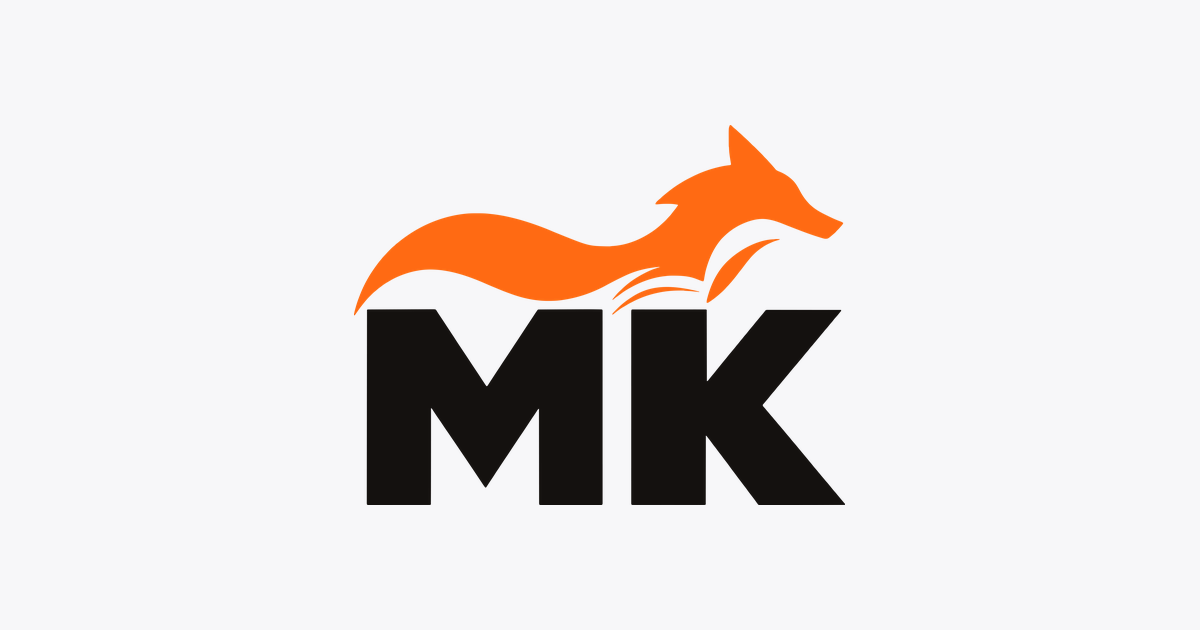
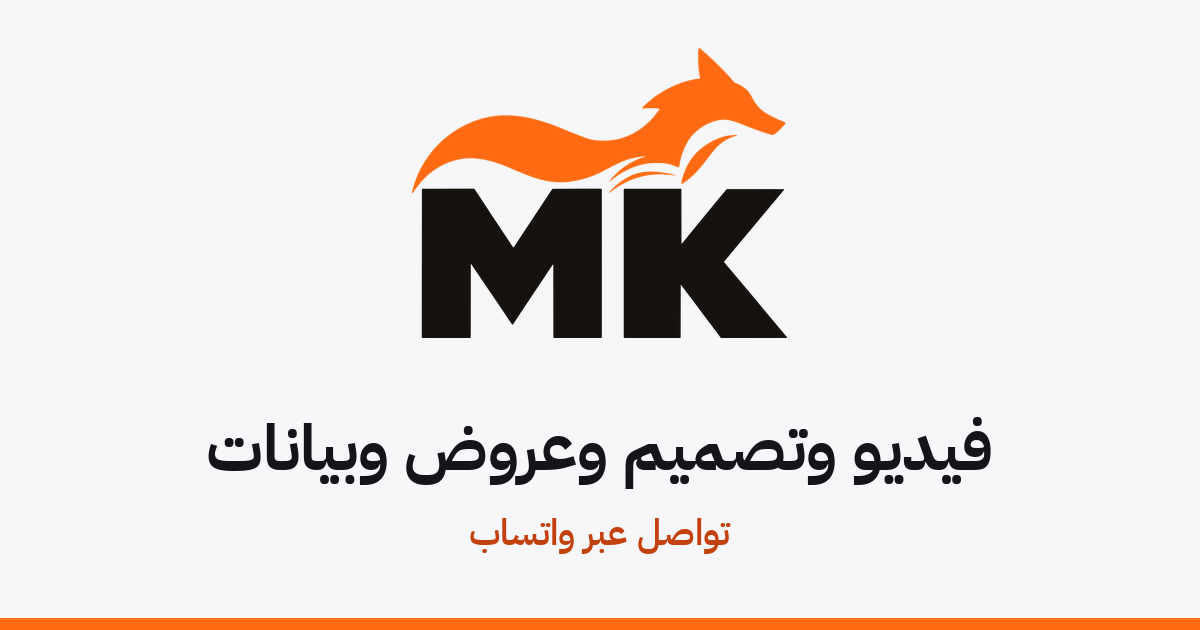
Responsive image sizes, share image with services line, static picks and services, hero preview pause button

Changed region(s): [[0.1542, 0.0905, 0.8325, 0.8746], [0.0, 0.9651, 1.0, 1.0]]

diff --git a/index.html b/index.html
@@ -17,12 +17,12 @@
 <meta property="og:description" content="استوديو فردي لأفلام الذكاء الاصطناعي والتصميم والعروض التقديمية، وتحليل البيانات بـ SPSS وExcel وPower BI، وتنسيق المستندات وبرمجة المواقع. التواصل عبر واتساب.">
 <meta property="og:image" content="https://mkstudio.studio/og-image.png">
 <meta property="og:image:width" content="1200"><meta property="og:image:height" content="630">
-<meta property="og:image:alt" content="شعار M.K Studio">
+<meta property="og:image:alt" content="شعار M.K Studio وخدمات الفيديو والتصميم والعروض وتحليل البيانات">
 <meta name="twitter:card" content="summary_large_image">
 <meta name="twitter:title" content="M.K Studio | فيديو وتصميم وعروض وبيانات">
 <meta name="twitter:description" content="استوديو فردي لأفلام الذكاء الاصطناعي والتصميم والعروض التقديمية، وتحليل البيانات بـ SPSS وExcel وPower BI، وتنسيق المستندات وبرمجة المواقع. التواصل عبر واتساب.">
 <meta name="twitter:image" content="https://mkstudio.studio/og-image.png">
-<meta name="twitter:image:alt" content="شعار M.K Studio">
+<meta name="twitter:image:alt" content="شعار M.K Studio وخدمات الفيديو والتصميم والعروض وتحليل البيانات">
 <script type="application/ld+json">{"@context": "https://schema.org", "@type": "ProfessionalService", "@id": "https://mkstudio.studio/#studio", "name": "M.K Studio", "url": "https://mkstudio.studio/", "image": "https://mkstudio.studio/og-image.png", "telephone": "+201147320608", "description": "استوديو فردي لأفلام الذكاء الاصطناعي والتصميم والعروض وتحليل البيانات وتنسيق المستندات والبرمجة ومواقع الويب.", "areaServed": ["مصر", "دول الخليج"], "contactPoint": {"@type": "ContactPoint", "contactType": "استفسارات الخدمات عبر واتساب", "url": "https://wa.me/201147320608", "availableLanguage": ["ar"]}}</script>
 </head>
 <body>
@@ -134,6 +134,8 @@ main:focus{outline:none}
 .bigplay{position:absolute;top:50%;left:50%;translate:-50% -50%;width:74px;height:74px;border-radius:50%;background:#fff;color:#14151a;display:grid;place-items:center;box-shadow:0 10px 30px #0006;transition:.25s}
 .bigplay .playdot{border-width:11px 0 11px 18px;margin-left:5px}
 .fw:hover .bigplay{scale:1.1;background:var(--fox);color:#fff}
+.fw{grid-row:1}.fwp{grid-column:1/-1;grid-row:1;align-self:start;justify-self:end;z-index:2;margin:12px;display:inline-flex;align-items:center;gap:6px;border:0;border-radius:999px;padding:7px 12px;background:#000a;color:#fff;font:700 13px/1 var(--body);cursor:pointer}
+.fwp[hidden]{display:none}.fwp:hover{background:#000d}.fwp:focus-visible{outline:2px solid #fff;outline-offset:2px}.fwp i{width:10px;height:11px;border-inline:3px solid currentColor;box-sizing:border-box}.fwp[aria-pressed="true"] i{width:0;height:0;border-inline:0;border-style:solid;border-color:transparent;border-width:6px 0 6px 10px;border-left-color:currentColor}
 .mini{position:relative;border-radius:14px;overflow:hidden;aspect-ratio:4/3;grid-column:span 3;border:0;padding:0;cursor:pointer;background:var(--ph);animation:rise .7s .2s backwards}
 .mini img{object-position:top;transition:scale .5s}
 .mini:hover img{scale:1.05}
@@ -300,7 +302,7 @@ dialog::backdrop{background:#000e}
 
 <div>
 <a class="skip btn solid" href="#main">انتقل إلى الأعمال</a>
-<noscript><p class="ns">لعرض الأعمال فعّل JavaScript، أو <a href="https://wa.me/201147320608">راسلني على واتساب</a>.</p></noscript>
+<noscript><p class="ns">لعرض المعاينات التفاعلية فعّل JavaScript، أو <a href="https://wa.me/201147320608">راسلني على واتساب</a> لتوضيح طلبك.</p></noscript>
 <header class="top"><div class="wrap">
   <a href="#" aria-label="M.K Studio"><img class="lg lg-l" src="assets/logo_light.svg" alt="M.K Studio" width="52" height="40"><img class="lg lg-d" src="assets/logo_inverse.svg" alt="" width="52" height="40"></a>
   <nav aria-label="الصفحة"><a href="#picks" data-go="">أبرز الأعمال</a><a href="#works" data-go="الكل">كل الأعمال</a><a href="#sites" data-go="مواقع وتطبيقات">مواقع وتطبيقات</a><a href="#services" data-go="">الخدمات</a><a href="#tools" data-go="">البرامج</a><a href="#contact" data-go="">تواصل</a></nav>
@@ -322,7 +324,7 @@ dialog::backdrop{background:#000e}
   <div class="collage" id="collage"></div>
 </div></section>
 
-<div class="wrap blk" id="picks"></div>
+<div class="wrap blk" id="picks"><div class="blk-h"><h2>أبرز الأعمال</h2></div><div class="bento"><button class="tile b" data-open="g1"><img src="works/g1/thumb.webp" srcset="works/g1/thumb-320.webp 320w, works/g1/thumb.webp 640w" sizes="(max-width:860px) 100vw, 600px" width="640" height="400" alt="" loading="lazy" decoding="async"><span class="lbl"><small>مجلات</small><b>مجلة سدرة</b></span></button><button class="tile w" data-open="v01"><img src="posters/v01.webp" srcset="posters/v01-320.webp 320w, posters/v01.webp 640w" sizes="(max-width:860px) 100vw, 600px" width="640" height="360" alt="" loading="lazy" decoding="async"><span class="tp"><span class="playdot"></span></span><span class="lbl"><small>حكايات من تراثنا · لمحة</small><b>سالفة من زمان</b></span></button><button class="tile h" data-open="g5"><img src="works/g5/thumb.webp" srcset="works/g5/thumb-320.webp 320w, works/g5/thumb.webp 640w" sizes="(max-width:860px) 50vw, 300px" width="640" height="400" alt="" loading="lazy" decoding="async"><span class="lbl"><small>إنفوجرافيك</small><b>قبل 125 ألف سنة</b></span></button><button class="tile " data-open="g15"><img src="works/g15/thumb.webp" srcset="works/g15/thumb-320.webp 320w, works/g15/thumb.webp 640w" sizes="(max-width:860px) 50vw, 300px" width="640" height="400" alt="" loading="lazy" decoding="async"><span class="lbl"><small>هويات بصرية</small><b>هوية مدار</b></span></button><button class="tile " data-open="t1"><img src="posters/t1.webp" srcset="posters/t1-320.webp 320w, posters/t1.webp 640w" sizes="(max-width:860px) 50vw, 300px" width="640" height="360" alt="" loading="lazy" decoding="async"><span class="tp"><span class="playdot"></span></span><span class="lbl"><small>فيديو تعليمي · لمحة</small><b>علامات الترقيم</b></span></button><button class="tile " data-open="g22"><img src="works/g22/thumb.webp" srcset="works/g22/thumb-320.webp 320w, works/g22/thumb.webp 640w" sizes="(max-width:860px) 50vw, 300px" width="640" height="360" alt="" loading="lazy" decoding="async"><span class="lbl"><small>عروض تقديمية</small><b>دلّة: محمصة قهوة</b></span></button><button class="tile " data-open="v03"><img src="posters/v03.webp" srcset="posters/v03-320.webp 320w, posters/v03.webp 640w" sizes="(max-width:860px) 50vw, 300px" width="640" height="360" alt="" loading="lazy" decoding="async"><span class="tp"><span class="playdot"></span></span><span class="lbl"><small>حكايات من تراثنا · لمحة</small><b>حكاية من البحر</b></span></button></div></div>
 
 <nav class="chips" id="works" aria-label="الأقسام"><div class="wrap" id="chips"></div></nav>
 <p class="sr" id="flt" role="status" aria-live="polite"></p>
@@ -331,7 +333,7 @@ dialog::backdrop{background:#000e}
 <div class="wrap">
   <section class="blk" id="services">
     <div class="blk-h"><h2>الخدمات</h2><p>خمسة مسارات، وكل مسار يبدأ من فكرتك وينتهي بملف أو موقع جاهز للنشر أو العرض.</p></div>
-    <div class="rows" id="svcs"></div>
+    <div class="rows" id="svcs"><a class="row" href="#works" data-go="فيديو"><span class="n">01</span><h3>فيديو بالذكاء الاصطناعي</h3><p>مسلسلات كرتونية وأفلام قصيرة وبودكاست مصوّر وفيديو تعليمي، بشخصيات وأصوات وموسيقى.</p><span class="go">شاهد الأعمال ←</span></a><a class="row" href="#works" data-go="تصميم"><span class="n">02</span><h3>تصميم وهويات</h3><p>مجلات وإنفوجرافيك وملصقات، وشعار وتطبيقاته من أدوات مكتبية وعبوات.</p><span class="go">شاهد الأعمال ←</span></a><a class="row" href="#works" data-go="عروض وبيانات"><span class="n">03</span><h3>عروض وتحليل بيانات</h3><p>عروض تقديمية بتصميم متكامل، ولوحات Power BI تحوّل الأرقام إلى قرار.</p><span class="go">شاهد الأعمال ←</span></a><a class="row" href="#works" data-go="مواقع وتطبيقات"><span class="n">04</span><h3>مواقع وتطبيقات ويب</h3><p>منصات وأدوات تعمل في المتصفح، من واجهة عربية واضحة إلى منطق وقاعدة بيانات.</p><span class="go">شاهد الأعمال ←</span></a><a class="row" href="#contact"><span class="n">05</span><h3>تنسيق الملفات</h3><p>ملفات Word وPowerPoint وPDF مرتّبة على دليل الجهة أو الجامعة.</p><span class="go">اطلب تنسيقًا ←</span></a></div>
     <div class="fmt"><h3>تنسيق الملفات وتحسينها</h3><p>أنسّق ملفات Word وPowerPoint وPDF وأرتّبها على دليل الجهة أو الجامعة. المحتوى كما هو، والتنسيق هو ما يتغيّر.</p><ul><li>خطوط وعناوين وفقرات موحّدة، واتجاه صحيح للعربية والإنجليزية</li><li>جداول وأشكال وصور بترقيم وعناوين ثابتة</li><li>فهرس وأغلفة وأرقام صفحات وقوائم المراجع</li><li>إصلاح الملفات التي تتبعثر أو تتغيّر عند فتحها على جهاز آخر</li></ul><p>أعمال العملاء في هذا المجال لا تُعرض حفاظًا على خصوصيتهم.</p><a class="ask" data-wa-service="تنسيق ملفات Word وPowerPoint">اسأل عن هذه الخدمة</a></div>
   </section>
   <section class="blk" id="tools">
@@ -368,7 +370,7 @@ dialog::backdrop{background:#000e}
 </div></dialog>
 </div>
 
-<script>const CFG={"total": 300};const WORKS=[{"cat": "حكايات من تراثنا", "title": "سالفة من زمان", "desc": "الحلقة الأولى، كرتون تراثي", "poster": "posters/v01.webp", "dur": 168, "id": "v01", "w": 1280, "h": 720, "group": "فيديو", "kind": "video", "teaser": {"file": "media/v01_t.mp4", "start": 40.55, "end": 68.38, "dur": 27.83, "full_dur": 168.1}}, {"cat": "حكايات من تراثنا", "title": "رحلة في نجد", "desc": "الحلقة الثانية، كرتون تراثي", "poster": "posters/v02.webp", "dur": 166, "id": "v02", "w": 1280, "h": 720, "group": "فيديو", "kind": "video", "teaser": {"file": "media/v02_t.mp4", "start": 63.05, "end": 89.0, "dur": 25.95, "full_dur": 165.6}}, {"cat": "حكايات من تراثنا", "title": "حكاية من البحر", "desc": "الحلقة الثالثة، كرتون تراثي", "poster": "posters/v03.webp", "dur": 160, "id": "v03", "w": 1280, "h": 720, "group": "فيديو", "kind": "video", "teaser": {"file": "media/v03_t.mp4", "start": 28.38, "end": 54.7, "dur": 26.32, "full_dur": 159.9}}, {"cat": "فيديوهات المهندس", "title": "بيتك بأقل تكلفة (واقعي)", "desc": "فيديو توعوي لبلدية مدينة المُدام، شخصية واقعية", "poster": "posters/e1.webp", "dur": 90, "id": "e1", "w": 406, "h": 720, "group": "فيديو", "kind": "video", "teaser": {"file": "media/e1_t.mp4", "start": 38.75, "end": 64.88, "dur": 26.13, "full_dur": 90.1}}, {"cat": "فيديوهات المهندس", "title": "بيتك بأقل تكلفة (كرتون)", "desc": "فيديو توعوي لبلدية مدينة المُدام، شخصية كرتونية", "poster": "posters/e2.webp", "dur": 98, "id": "e2", "w": 406, "h": 720, "group": "فيديو", "kind": "video", "teaser": {"file": "media/e2_t.mp4", "start": 36.62, "end": 60.62, "dur": 24.0, "full_dur": 98.3}}, {"cat": "فيديوهات المهندس", "title": "أخطاء البناء (كرتون)", "desc": "فيديو توعوي لبلدية مدينة المُدام، شخصية كرتونية", "poster": "posters/e3.webp", "dur": 167, "id": "e3", "w": 406, "h": 720, "group": "فيديو", "kind": "video", "teaser": {"file": "media/e3_t.mp4", "start": 112.38, "end": 135.38, "dur": 23.0, "full_dur": 167.3}}, {"cat": "أكثر من شاشة", "title": "أكثر من شاشة", "desc": "فيلم واقعي قصير: حوار بين أخ وأخته عن العمل في الإعلام", "poster": "posters/f1.webp", "dur": 206, "id": "f1", "w": 1280, "h": 720, "group": "فيديو", "kind": "video", "teaser": {"file": "media/f1_t.mp4", "start": 139.25, "end": 162.95, "dur": 23.7, "full_dur": 205.8}}, {"cat": "رسوم متحركة", "title": "الشايب", "desc": "رسوم كرتونية بصوت مصري", "file": "media/m1.mp4", "poster": "posters/m1.webp", "dur": 15, "id": "m1", "w": 406, "h": 720, "group": "فيديو", "kind": "video"}, {"cat": "رسوم متحركة", "title": "الأخطبوط", "desc": "رسوم متحركة قصيرة", "file": "media/m2.mp4", "poster": "posters/m2.webp", "dur": 14, "id": "m2", "w": 1280, "h": 720, "group": "فيديو", "kind": "video"}, {"cat": "رسوم متحركة", "title": "قصة ثلاثية الأبعاد", "desc": "رسوم متحركة ثلاثية الأبعاد بالعربية", "file": "media/m3.mp4", "poster": "posters/m3.webp", "dur": 10, "id": "m3", "w": 406, "h": 720, "group": "فيديو", "kind": "video"}, {"cat": "رسوم متحركة", "title": "رحلة النيل", "desc": "خريطة متحركة بالعربية", "file": "media/m4.mp4", "poster": "posters/m4.webp", "dur": 13, "id": "m4", "w": 406, "h": 720, "group": "فيديو", "kind": "video"}, {"cat": "فيديو تعليمي", "title": "علامات الترقيم", "desc": "فيديو تعليمي متحرك بتعليق صوتي ومؤثرات", "poster": "posters/t1.webp", "dur": 171, "id": "t1", "w": 1280, "h": 720, "group": "فيديو", "kind": "video", "teaser": {"file": "media/t1_t.mp4", "start": 10.53, "end": 36.53, "dur": 26.0, "full_dur": 170.6}}, {"cat": "بودكاست", "title": "خلف الكواليس", "desc": "الحلقة الأولى، فريق شمسة", "poster": "posters/v14.webp", "dur": 505, "id": "v14", "w": 1280, "h": 720, "group": "فيديو", "kind": "video", "teaser": {"file": "media/v14_t.mp4", "start": 62.05, "end": 84.95, "dur": 22.9, "full_dur": 505.3}}, {"cat": "بودكاست", "title": "فلاتر السعادة", "desc": "الحلقة الأولى", "poster": "posters/v15.webp", "dur": 270, "id": "v15", "w": 1280, "h": 720, "group": "فيديو", "kind": "video", "teaser": {"file": "media/v15_t.mp4", "start": 52.55, "end": 75.95, "dur": 23.4, "full_dur": 270.0}}, {"cat": "عرض أعمال", "title": "معرض أخبار الإمارات المجتمعية", "desc": "فيديو عرض أعمال شمسة وفريقها، 60 ثانية", "file": "media/v16.mp4", "poster": "posters/v16.webp", "dur": 60, "id": "v16", "w": 1280, "h": 720, "group": "فيديو", "kind": "video"}, {"id": "g1", "group": "تصميم", "cat": "مجلات", "title": "مجلة سدرة", "desc": "مجلة جامعية، العدد الأول", "kind": "images", "poster": "works/g1/thumb.webp", "images": ["works/g1/p1.webp", "works/g1/p2.webp", "works/g1/p3.webp", "works/g1/p4.webp", "works/g1/p5.webp"], "tall": false}, {"id": "g2", "group": "تصميم", "cat": "مجلات", "title": "مجلة نظام نور", "desc": "مجلة إلكترونية عن نظام إدارة التعليم", "kind": "images", "poster": "works/g2/thumb.webp", "images": ["works/g2/p1.webp", "works/g2/p2.webp", "works/g2/p3.webp", "works/g2/p4.webp", "works/g2/p5.webp", "works/g2/p6.webp"], "tall": false}, {"id": "g3", "group": "تصميم", "cat": "مجلات", "title": "مجلة ملصقات الكيمياء", "desc": "مجلة ملصقات تحفيزية لمادة الكيمياء", "kind": "images", "poster": "works/g3/thumb.webp", "images": ["works/g3/p1.webp", "works/g3/p2.webp", "works/g3/p3.webp", "works/g3/p4.webp", "works/g3/p5.webp"], "tall": false}, {"id": "g4", "group": "تصميم", "cat": "إنفوجرافيك", "title": "هل هذا عملك؟", "desc": "إنفوجرافيك توعوي", "kind": "images", "poster": "works/g4/thumb.webp", "images": ["works/g4/p1.webp"], "tall": false}, {"id": "g5", "group": "تصميم", "cat": "إنفوجرافيك", "title": "قبل 125 ألف سنة", "desc": "إنفوجرافيك تعريفي", "kind": "images", "poster": "works/g5/thumb.webp", "images": ["works/g5/p1.webp"], "tall": true}, {"id": "g6", "group": "تصميم", "cat": "إنفوجرافيك", "title": "رسالة واحدة قد تكون الأخيرة", "desc": "إنفوجرافيك توعوي", "kind": "images", "poster": "works/g6/thumb.webp", "images": ["works/g6/p1.webp"], "tall": true}, {"id": "g7", "group": "تصميم", "cat": "إنفوجرافيك", "title": "ماذا يعرف عنك تطبيقك؟", "desc": "إنفوجرافيك توعوي", "kind": "images", "poster": "works/g7/thumb.webp", "images": ["works/g7/p1.webp"], "tall": true}, {"id": "g9", "group": "تصميم", "cat": "إنفوجرافيك", "title": "أنت تحترق ببطء", "desc": "إنفوجرافيك صحي", "kind": "images", "poster": "works/g9/thumb.webp", "images": ["works/g9/p1.webp"], "tall": true}, {"id": "g10", "group": "تصميم", "cat": "ملصقات ومنشورات", "title": "ملصقات التعزيز الكيميائي", "desc": "ملصقات تحفيزية", "kind": "images", "poster": "works/g10/thumb.webp", "images": ["works/g10/p1.webp"], "tall": false}, {"id": "g11", "group": "تصميم", "cat": "ملصقات ومنشورات", "title": "ملصق حبّة", "desc": "ملصق إعلاني لعلامة قهوة مختصة", "kind": "images", "poster": "works/g11/thumb.webp", "images": ["works/g11/p1.webp"], "tall": false}, {"id": "g12", "group": "تصميم", "cat": "ملصقات ومنشورات", "title": "خمس مبادرات لأمن دبي الغذائي", "desc": "منشور إخباري لعلامة زاد", "kind": "images", "poster": "works/g12/thumb.webp", "images": ["works/g12/p1.webp"], "tall": false}, {"id": "g15", "group": "تصميم", "cat": "هويات بصرية", "title": "هوية مدار", "desc": "شعار واتجاه التصميم", "kind": "images", "poster": "works/g15/thumb.webp", "images": ["works/g15/p1.webp", "works/g15/p2.webp"], "tall": false}, {"id": "g14", "group": "تصميم", "cat": "هويات بصرية", "title": "هوية حبّة", "desc": "شعار وأدوات مكتبية وكوب وإعلان طريق", "kind": "images", "poster": "works/g14/thumb.webp", "images": ["works/g14/p1.webp", "works/g14/p2.webp", "works/g14/p3.webp", "works/g14/p4.webp"], "tall": false}, {"id": "g16", "group": "تصميم", "cat": "هويات بصرية", "title": "هوية زاد", "desc": "شعار وغلاف وصورة حساب", "kind": "images", "poster": "works/g16/thumb.webp", "images": ["works/g16/p1.webp", "works/g16/p2.webp", "works/g16/p3.webp"], "tall": false}, {"id": "g17", "group": "عروض وبيانات", "cat": "تحليل بيانات", "title": "لوحة Power BI: النقل في الخليج", "desc": "تحليل بيانات النقل الجوي والبحري", "kind": "images", "poster": "works/g17/thumb.webp", "images": ["works/g17/p1.webp", "works/g17/p2.webp", "works/g17/p3.webp"], "tall": false}, {"id": "g18", "group": "عروض وبيانات", "cat": "عروض تقديمية", "title": "سَنَد: مساعدة دراسية جامعية", "desc": "عرض مشروع ريادي", "kind": "images", "poster": "works/g18/thumb.webp", "images": ["works/g18/p1.webp", "works/g18/p2.webp", "works/g18/p3.webp", "works/g18/p4.webp", "works/g18/p5.webp", "works/g18/p6.webp"], "tall": false}, {"id": "g20", "group": "عروض وبيانات", "cat": "عروض تقديمية", "title": "برنامج تدريبي في تنمية الموارد البشرية", "desc": "عرض برنامج تدريبي من خمسة أيام", "kind": "images", "poster": "works/g20/thumb.webp", "images": ["works/g20/p1.webp", "works/g20/p2.webp", "works/g20/p3.webp"], "tall": false}, {"id": "g21", "group": "عروض وبيانات", "cat": "عروض تقديمية", "title": "حزمة أدوات تعزز تراثنا", "desc": "عرض تلخيصي لكتاب عن التراث العالمي", "kind": "images", "poster": "works/g21/thumb.webp", "images": ["works/g21/p1.webp", "works/g21/p2.webp", "works/g21/p3.webp", "works/g21/p4.webp", "works/g21/p5.webp", "works/g21/p6.webp"], "tall": false}, {"id": "g22", "group": "عروض وبيانات", "cat": "عروض تقديمية", "title": "دلّة: محمصة قهوة", "desc": "عرض مشروع ريادي", "kind": "images", "poster": "works/g22/thumb.webp", "images": ["works/g22/p1.webp", "works/g22/p2.webp", "works/g22/p3.webp", "works/g22/p4.webp", "works/g22/p5.webp", "works/g22/p6.webp"], "tall": false}];</script>
+<script>const CFG={"total": 300};const IMGS={"posters/v01.webp":[640,360,[["posters/v01-320.webp",320]]],"posters/v02.webp":[640,360,[["posters/v02-320.webp",320]]],"posters/v03.webp":[640,360,[["posters/v03-320.webp",320]]],"posters/e1.webp":[360,638,[["posters/e1-320.webp",320]]],"posters/e2.webp":[360,638,[["posters/e2-320.webp",320]]],"posters/e3.webp":[360,638,[["posters/e3-320.webp",320]]],"posters/f1.webp":[640,360,[["posters/f1-320.webp",320],["posters/f1-960.webp",960]]],"posters/m1.webp":[360,638,[["posters/m1-320.webp",320]]],"posters/m2.webp":[640,360,[["posters/m2-320.webp",320]]],"posters/m3.webp":[360,638,[["posters/m3-320.webp",320]]],"posters/m4.webp":[360,638,[["posters/m4-320.webp",320]]],"posters/t1.webp":[640,360,[["posters/t1-320.webp",320]]],"posters/v14.webp":[640,360,[["posters/v14-320.webp",320]]],"posters/v15.webp":[640,360,[["posters/v15-320.webp",320]]],"posters/v16.webp":[640,360,[["posters/v16-320.webp",320]]],"works/g1/thumb.webp":[640,400,[["works/g1/thumb-320.webp",320]]],"works/g1/p2.webp":[1300,1840,[["works/g1/p2-320.webp",320],["works/g1/p2-640.webp",640]]],"works/g1/p3.webp":[1300,1840,[["works/g1/p3-320.webp",320],["works/g1/p3-640.webp",640]]],"works/g1/p4.webp":[1300,1840,[["works/g1/p4-320.webp",320],["works/g1/p4-640.webp",640]]],"works/g1/p5.webp":[1300,1840,[["works/g1/p5-320.webp",320],["works/g1/p5-640.webp",640]]],"works/g2/thumb.webp":[640,360,[["works/g2/thumb-320.webp",320]]],"works/g2/p2.webp":[1500,844,[["works/g2/p2-320.webp",320],["works/g2/p2-640.webp",640]]],"works/g2/p3.webp":[1500,844,[["works/g2/p3-320.webp",320],["works/g2/p3-640.webp",640]]],"works/g2/p4.webp":[1500,844,[["works/g2/p4-320.webp",320],["works/g2/p4-640.webp",640]]],"works/g2/p5.webp":[1500,844,[["works/g2/p5-320.webp",320],["works/g2/p5-640.webp",640]]],"works/g2/p6.webp":[1500,844,[["works/g2/p6-320.webp",320],["works/g2/p6-640.webp",640]]],"works/g3/thumb.webp":[640,400,[["works/g3/thumb-320.webp",320]]],"works/g3/p2.webp":[1300,1839,[["works/g3/p2-320.webp",320],["works/g3/p2-640.webp",640]]],"works/g3/p3.webp":[1300,1839,[["works/g3/p3-320.webp",320],["works/g3/p3-640.webp",640]]],"works/g3/p4.webp":[1300,1839,[["works/g3/p4-320.webp",320],["works/g3/p4-640.webp",640]]],"works/g3/p5.webp":[1300,1839,[["works/g3/p5-320.webp",320],["works/g3/p5-640.webp",640]]],"works/g4/thumb.webp":[640,400,[["works/g4/thumb-320.webp",320]]],"works/g5/thumb.webp":[640,400,[["works/g5/thumb-320.webp",320]]],"works/g6/thumb.webp":[640,400,[["works/g6/thumb-320.webp",320]]],"works/g7/thumb.webp":[640,400,[["works/g7/thumb-320.webp",320]]],"works/g9/thumb.webp":[640,400,[["works/g9/thumb-320.webp",320]]],"works/g10/thumb.webp":[640,400,[["works/g10/thumb-320.webp",320]]],"works/g11/thumb.webp":[640,400,[["works/g11/thumb-320.webp",320]]],"works/g12/thumb.webp":[640,400,[["works/g12/thumb-320.webp",320]]],"works/g15/thumb.webp":[640,400,[["works/g15/thumb-320.webp",320]]],"works/g15/p2.webp":[1500,1482,[["works/g15/p2-320.webp",320],["works/g15/p2-640.webp",640]]],"works/g14/thumb.webp":[640,400,[["works/g14/thumb-320.webp",320]]],"works/g14/p2.webp":[1300,709,[["works/g14/p2-320.webp",320],["works/g14/p2-640.webp",640]]],"works/g14/p3.webp":[1300,709,[["works/g14/p3-320.webp",320],["works/g14/p3-640.webp",640]]],"works/g14/p4.webp":[848,1264,[["works/g14/p4-320.webp",320],["works/g14/p4-640.webp",640]]],"works/g16/thumb.webp":[640,400,[["works/g16/thumb-320.webp",320]]],"works/g16/p2.webp":[1300,494,[["works/g16/p2-320.webp",320],["works/g16/p2-640.webp",640]]],"works/g16/p3.webp":[1080,1080,[["works/g16/p3-320.webp",320],["works/g16/p3-640.webp",640]]],"works/g17/thumb.webp":[640,360,[["works/g17/thumb-320.webp",320]]],"works/g17/p2.webp":[1165,657,[["works/g17/p2-320.webp",320],["works/g17/p2-640.webp",640]]],"works/g17/p3.webp":[1165,657,[["works/g17/p3-320.webp",320],["works/g17/p3-640.webp",640]]],"works/g18/thumb.webp":[640,360,[["works/g18/thumb-320.webp",320]]],"works/g18/p2.webp":[1400,788,[["works/g18/p2-320.webp",320],["works/g18/p2-640.webp",640]]],"works/g18/p3.webp":[1400,788,[["works/g18/p3-320.webp",320],["works/g18/p3-640.webp",640]]],"works/g18/p4.webp":[1400,788,[["works/g18/p4-320.webp",320],["works/g18/p4-640.webp",640]]],"works/g18/p5.webp":[1400,788,[["works/g18/p5-320.webp",320],["works/g18/p5-640.webp",640]]],"works/g18/p6.webp":[1400,788,[["works/g18/p6-320.webp",320],["works/g18/p6-640.webp",640]]],"works/g20/thumb.webp":[640,360,[["works/g20/thumb-320.webp",320]]],"works/g20/p2.webp":[1400,788,[["works/g20/p2-320.webp",320],["works/g20/p2-640.webp",640]]],"works/g20/p3.webp":[1400,788,[["works/g20/p3-320.webp",320],["works/g20/p3-640.webp",640]]],"works/g21/thumb.webp":[640,360,[["works/g21/thumb-320.webp",320]]],"works/g21/p2.webp":[1400,788,[["works/g21/p2-320.webp",320],["works/g21/p2-640.webp",640]]],"works/g21/p3.webp":[1400,788,[["works/g21/p3-320.webp",320],["works/g21/p3-640.webp",640]]],"works/g21/p4.webp":[1400,788,[["works/g21/p4-320.webp",320],["works/g21/p4-640.webp",640]]],"works/g21/p5.webp":[1400,788,[["works/g21/p5-320.webp",320],["works/g21/p5-640.webp",640]]],"works/g21/p6.webp":[1400,788,[["works/g21/p6-320.webp",320],["works/g21/p6-640.webp",640]]],"works/g22/thumb.webp":[640,360,[["works/g22/thumb-320.webp",320]]],"works/g22/p2.webp":[1400,788,[["works/g22/p2-320.webp",320],["works/g22/p2-640.webp",640]]],"works/g22/p3.webp":[1400,788,[["works/g22/p3-320.webp",320],["works/g22/p3-640.webp",640]]],"works/g22/p4.webp":[1400,788,[["works/g22/p4-320.webp",320],["works/g22/p4-640.webp",640]]],"works/g22/p5.webp":[1400,788,[["works/g22/p5-320.webp",320],["works/g22/p5-640.webp",640]]],"works/g22/p6.webp":[1400,788,[["works/g22/p6-320.webp",320],["works/g22/p6-640.webp",640]]],"sites/skillgrow.webp":[800,500,[["sites/skillgrow-320.webp",320],["sites/skillgrow-480.webp",480]]],"sites/smartqr.webp":[800,500,[["sites/smartqr-320.webp",320],["sites/smartqr-480.webp",480]]],"sites/starcatcher.webp":[800,500,[["sites/starcatcher-320.webp",320],["sites/starcatcher-480.webp",480]]],"sites/masarak.webp":[800,500,[["sites/masarak-320.webp",320],["sites/masarak-480.webp",480]]],"sites/jamiati.webp":[800,500,[["sites/jamiati-320.webp",320],["sites/jamiati-480.webp",480]]],"sites/ektashif.webp":[800,500,[["sites/ektashif-320.webp",320],["sites/ektashif-480.webp",480]]],"sites/pixelart.webp":[800,500,[["sites/pixelart-320.webp",320],["sites/pixelart-480.webp",480]]],"sites/passgen.webp":[800,500,[["sites/passgen-320.webp",320],["sites/passgen-480.webp",480]]]};const WORKS=[{"cat": "حكايات من تراثنا", "title": "سالفة من زمان", "desc": "الحلقة الأولى، كرتون تراثي", "poster": "posters/v01.webp", "dur": 168, "id": "v01", "w": 1280, "h": 720, "group": "فيديو", "kind": "video", "teaser": {"file": "media/v01_t.mp4", "start": 40.55, "end": 68.38, "dur": 27.83, "full_dur": 168.1}}, {"cat": "حكايات من تراثنا", "title": "رحلة في نجد", "desc": "الحلقة الثانية، كرتون تراثي", "poster": "posters/v02.webp", "dur": 166, "id": "v02", "w": 1280, "h": 720, "group": "فيديو", "kind": "video", "teaser": {"file": "media/v02_t.mp4", "start": 63.05, "end": 89.0, "dur": 25.95, "full_dur": 165.6}}, {"cat": "حكايات من تراثنا", "title": "حكاية من البحر", "desc": "الحلقة الثالثة، كرتون تراثي", "poster": "posters/v03.webp", "dur": 160, "id": "v03", "w": 1280, "h": 720, "group": "فيديو", "kind": "video", "teaser": {"file": "media/v03_t.mp4", "start": 28.38, "end": 54.7, "dur": 26.32, "full_dur": 159.9}}, {"cat": "فيديوهات المهندس", "title": "بيتك بأقل تكلفة (واقعي)", "desc": "فيديو توعوي لبلدية مدينة المُدام، شخصية واقعية", "poster": "posters/e1.webp", "dur": 90, "id": "e1", "w": 406, "h": 720, "group": "فيديو", "kind": "video", "teaser": {"file": "media/e1_t.mp4", "start": 38.75, "end": 64.88, "dur": 26.13, "full_dur": 90.1}}, {"cat": "فيديوهات المهندس", "title": "بيتك بأقل تكلفة (كرتون)", "desc": "فيديو توعوي لبلدية مدينة المُدام، شخصية كرتونية", "poster": "posters/e2.webp", "dur": 98, "id": "e2", "w": 406, "h": 720, "group": "فيديو", "kind": "video", "teaser": {"file": "media/e2_t.mp4", "start": 36.62, "end": 60.62, "dur": 24.0, "full_dur": 98.3}}, {"cat": "فيديوهات المهندس", "title": "أخطاء البناء (كرتون)", "desc": "فيديو توعوي لبلدية مدينة المُدام، شخصية كرتونية", "poster": "posters/e3.webp", "dur": 167, "id": "e3", "w": 406, "h": 720, "group": "فيديو", "kind": "video", "teaser": {"file": "media/e3_t.mp4", "start": 112.38, "end": 135.38, "dur": 23.0, "full_dur": 167.3}}, {"cat": "أكثر من شاشة", "title": "أكثر من شاشة", "desc": "فيلم واقعي قصير: حوار بين أخ وأخته عن العمل في الإعلام", "poster": "posters/f1.webp", "dur": 206, "id": "f1", "w": 1280, "h": 720, "group": "فيديو", "kind": "video", "teaser": {"file": "media/f1_t.mp4", "start": 139.25, "end": 162.95, "dur": 23.7, "full_dur": 205.8}}, {"cat": "رسوم متحركة", "title": "الشايب", "desc": "رسوم كرتونية بصوت مصري", "file": "media/m1.mp4", "poster": "posters/m1.webp", "dur": 15, "id": "m1", "w": 406, "h": 720, "group": "فيديو", "kind": "video"}, {"cat": "رسوم متحركة", "title": "الأخطبوط", "desc": "رسوم متحركة قصيرة", "file": "media/m2.mp4", "poster": "posters/m2.webp", "dur": 14, "id": "m2", "w": 1280, "h": 720, "group": "فيديو", "kind": "video"}, {"cat": "رسوم متحركة", "title": "قصة ثلاثية الأبعاد", "desc": "رسوم متحركة ثلاثية الأبعاد بالعربية", "file": "media/m3.mp4", "poster": "posters/m3.webp", "dur": 10, "id": "m3", "w": 406, "h": 720, "group": "فيديو", "kind": "video"}, {"cat": "رسوم متحركة", "title": "رحلة النيل", "desc": "خريطة متحركة بالعربية", "file": "media/m4.mp4", "poster": "posters/m4.webp", "dur": 13, "id": "m4", "w": 406, "h": 720, "group": "فيديو", "kind": "video"}, {"cat": "فيديو تعليمي", "title": "علامات الترقيم", "desc": "فيديو تعليمي متحرك بتعليق صوتي ومؤثرات", "poster": "posters/t1.webp", "dur": 171, "id": "t1", "w": 1280, "h": 720, "group": "فيديو", "kind": "video", "teaser": {"file": "media/t1_t.mp4", "start": 10.53, "end": 36.53, "dur": 26.0, "full_dur": 170.6}}, {"cat": "بودكاست", "title": "خلف الكواليس", "desc": "الحلقة الأولى، فريق شمسة", "poster": "posters/v14.webp", "dur": 505, "id": "v14", "w": 1280, "h": 720, "group": "فيديو", "kind": "video", "teaser": {"file": "media/v14_t.mp4", "start": 62.05, "end": 84.95, "dur": 22.9, "full_dur": 505.3}}, {"cat": "بودكاست", "title": "فلاتر السعادة", "desc": "الحلقة الأولى", "poster": "posters/v15.webp", "dur": 270, "id": "v15", "w": 1280, "h": 720, "group": "فيديو", "kind": "video", "teaser": {"file": "media/v15_t.mp4", "start": 52.55, "end": 75.95, "dur": 23.4, "full_dur": 270.0}}, {"cat": "عرض أعمال", "title": "معرض أخبار الإمارات المجتمعية", "desc": "فيديو عرض أعمال شمسة وفريقها، 60 ثانية", "file": "media/v16.mp4", "poster": "posters/v16.webp", "dur": 60, "id": "v16", "w": 1280, "h": 720, "group": "فيديو", "kind": "video"}, {"id": "g1", "group": "تصميم", "cat": "مجلات", "title": "مجلة سدرة", "desc": "مجلة جامعية، العدد الأول", "kind": "images", "poster": "works/g1/thumb.webp", "images": ["works/g1/p1.webp", "works/g1/p2.webp", "works/g1/p3.webp", "works/g1/p4.webp", "works/g1/p5.webp"], "tall": false}, {"id": "g2", "group": "تصميم", "cat": "مجلات", "title": "مجلة نظام نور", "desc": "مجلة إلكترونية عن نظام إدارة التعليم", "kind": "images", "poster": "works/g2/thumb.webp", "images": ["works/g2/p1.webp", "works/g2/p2.webp", "works/g2/p3.webp", "works/g2/p4.webp", "works/g2/p5.webp", "works/g2/p6.webp"], "tall": false}, {"id": "g3", "group": "تصميم", "cat": "مجلات", "title": "مجلة ملصقات الكيمياء", "desc": "مجلة ملصقات تحفيزية لمادة الكيمياء", "kind": "images", "poster": "works/g3/thumb.webp", "images": ["works/g3/p1.webp", "works/g3/p2.webp", "works/g3/p3.webp", "works/g3/p4.webp", "works/g3/p5.webp"], "tall": false}, {"id": "g4", "group": "تصميم", "cat": "إنفوجرافيك", "title": "هل هذا عملك؟", "desc": "إنفوجرافيك توعوي", "kind": "images", "poster": "works/g4/thumb.webp", "images": ["works/g4/p1.webp"], "tall": false}, {"id": "g5", "group": "تصميم", "cat": "إنفوجرافيك", "title": "قبل 125 ألف سنة", "desc": "إنفوجرافيك تعريفي", "kind": "images", "poster": "works/g5/thumb.webp", "images": ["works/g5/p1.webp"], "tall": true}, {"id": "g6", "group": "تصميم", "cat": "إنفوجرافيك", "title": "رسالة واحدة قد تكون الأخيرة", "desc": "إنفوجرافيك توعوي", "kind": "images", "poster": "works/g6/thumb.webp", "images": ["works/g6/p1.webp"], "tall": true}, {"id": "g7", "group": "تصميم", "cat": "إنفوجرافيك", "title": "ماذا يعرف عنك تطبيقك؟", "desc": "إنفوجرافيك توعوي", "kind": "images", "poster": "works/g7/thumb.webp", "images": ["works/g7/p1.webp"], "tall": true}, {"id": "g9", "group": "تصميم", "cat": "إنفوجرافيك", "title": "أنت تحترق ببطء", "desc": "إنفوجرافيك صحي", "kind": "images", "poster": "works/g9/thumb.webp", "images": ["works/g9/p1.webp"], "tall": true}, {"id": "g10", "group": "تصميم", "cat": "ملصقات ومنشورات", "title": "ملصقات التعزيز الكيميائي", "desc": "ملصقات تحفيزية", "kind": "images", "poster": "works/g10/thumb.webp", "images": ["works/g10/p1.webp"], "tall": false}, {"id": "g11", "group": "تصميم", "cat": "ملصقات ومنشورات", "title": "ملصق حبّة", "desc": "ملصق إعلاني لعلامة قهوة مختصة", "kind": "images", "poster": "works/g11/thumb.webp", "images": ["works/g11/p1.webp"], "tall": false}, {"id": "g12", "group": "تصميم", "cat": "ملصقات ومنشورات", "title": "خمس مبادرات لأمن دبي الغذائي", "desc": "منشور إخباري لعلامة زاد", "kind": "images", "poster": "works/g12/thumb.webp", "images": ["works/g12/p1.webp"], "tall": false}, {"id": "g15", "group": "تصميم", "cat": "هويات بصرية", "title": "هوية مدار", "desc": "شعار واتجاه التصميم", "kind": "images", "poster": "works/g15/thumb.webp", "images": ["works/g15/p1.webp", "works/g15/p2.webp"], "tall": false}, {"id": "g14", "group": "تصميم", "cat": "هويات بصرية", "title": "هوية حبّة", "desc": "شعار وأدوات مكتبية وكوب وإعلان طريق", "kind": "images", "poster": "works/g14/thumb.webp", "images": ["works/g14/p1.webp", "works/g14/p2.webp", "works/g14/p3.webp", "works/g14/p4.webp"], "tall": false}, {"id": "g16", "group": "تصميم", "cat": "هويات بصرية", "title": "هوية زاد", "desc": "شعار وغلاف وصورة حساب", "kind": "images", "poster": "works/g16/thumb.webp", "images": ["works/g16/p1.webp", "works/g16/p2.webp", "works/g16/p3.webp"], "tall": false}, {"id": "g17", "group": "عروض وبيانات", "cat": "تحليل بيانات", "title": "لوحة Power BI: النقل في الخليج", "desc": "تحليل بيانات النقل الجوي والبحري", "kind": "images", "poster": "works/g17/thumb.webp", "images": ["works/g17/p1.webp", "works/g17/p2.webp", "works/g17/p3.webp"], "tall": false}, {"id": "g18", "group": "عروض وبيانات", "cat": "عروض تقديمية", "title": "سَنَد: مساعدة دراسية جامعية", "desc": "عرض مشروع ريادي", "kind": "images", "poster": "works/g18/thumb.webp", "images": ["works/g18/p1.webp", "works/g18/p2.webp", "works/g18/p3.webp", "works/g18/p4.webp", "works/g18/p5.webp", "works/g18/p6.webp"], "tall": false}, {"id": "g20", "group": "عروض وبيانات", "cat": "عروض تقديمية", "title": "برنامج تدريبي في تنمية الموارد البشرية", "desc": "عرض برنامج تدريبي من خمسة أيام", "kind": "images", "poster": "works/g20/thumb.webp", "images": ["works/g20/p1.webp", "works/g20/p2.webp", "works/g20/p3.webp"], "tall": false}, {"id": "g21", "group": "عروض وبيانات", "cat": "عروض تقديمية", "title": "حزمة أدوات تعزز تراثنا", "desc": "عرض تلخيصي لكتاب عن التراث العالمي", "kind": "images", "poster": "works/g21/thumb.webp", "images": ["works/g21/p1.webp", "works/g21/p2.webp", "works/g21/p3.webp", "works/g21/p4.webp", "works/g21/p5.webp", "works/g21/p6.webp"], "tall": false}, {"id": "g22", "group": "عروض وبيانات", "cat": "عروض تقديمية", "title": "دلّة: محمصة قهوة", "desc": "عرض مشروع ريادي", "kind": "images", "poster": "works/g22/thumb.webp", "images": ["works/g22/p1.webp", "works/g22/p2.webp", "works/g22/p3.webp", "works/g22/p4.webp", "works/g22/p5.webp", "works/g22/p6.webp"], "tall": false}];</script>
 <script>const SITES_DATA=[{"id": "skillgrow", "title": "SkillGrow", "show": true, "url": null, "poster": "sites/skillgrow.webp", "status": "قيد النشر", "desc": "منصة دورات تعليمية: تصفّح الدورات وحفظ المفضلة وشراء دورة عبر نافذة دفع تجريبية، مع تسجيل حساب ودخول وجلسة محفوظة.", "tech": "React · Tailwind CSS · Vite"}, {"id": "smartqr", "title": "Smart QR", "show": true, "url": null, "poster": "sites/smartqr.webp", "status": "قيد النشر", "desc": "أداة لتوليد رموز QR لسبعة أنواع (رسالة، نص، رابط، هاتف، بريد، واي فاي، بطاقة اتصال) مع معاينة فورية وألوان وحجم من 100 إلى 500 بكسل، وتنزيل PNG ومشاركة وسجل للرموز السابقة.", "tech": "JavaScript ES Modules · qrcode.js · CSS"}, {"id": "starcatcher", "title": "Star Catcher", "show": true, "url": null, "poster": "sites/starcatcher.webp", "status": "قيد النشر", "desc": "لعبة ويب: تحرّك السلة لالتقاط النجوم وتفادي القنابل، ثلاث محاولات، وتزداد السرعة مع كل مستوى. تعمل بلوحة المفاتيح أو الفأرة أو اللمس.", "tech": "JavaScript · Canvas"}, {"id": "masarak", "title": "مسارك", "show": true, "url": null, "poster": "sites/masarak.webp", "status": "قيد النشر", "desc": "دليل لمبنى الكلية بأدواره الثلاثة: بحث عن قاعة أو مكتب برقمه، وخرائط تفاعلية لكل دور تعرض أرقام الغرف ونوعها.", "tech": "HTML · CSS · JavaScript"}, {"id": "jamiati", "title": "جامعتي", "show": true, "url": null, "poster": "sites/jamiati.webp", "status": "قيد النشر", "desc": "موقع جامعي من خمس صفحات: بنك ملخصات المقررات حسب الفصل، وسوق للكتب والأدوات المستعملة، وخطط تدريبية، وتسجيل دخول.", "tech": "HTML · CSS · JavaScript"}, {"id": "ektashif", "title": "اكتشف البلد", "show": true, "url": null, "poster": "sites/ektashif.webp", "status": "قيد النشر", "desc": "موقع سياحي عن جدة التاريخية «البلد»: تاريخها ومعالمها وأسواقها، وتخطيط زيارة وتقييمات الزوار.", "tech": "HTML · CSS · JavaScript · PHP · MySQL"}, {"id": "pixelart", "title": "Pixel Art", "show": true, "url": null, "poster": "sites/pixelart.webp", "status": "قيد النشر", "desc": "محرر رسم بالبكسل: تختار عرض الشبكة وارتفاعها من 1 إلى 35 خانة، ثم ترسم بلون تختاره أو تمسح خانة أو تفرغ اللوحة.", "tech": "HTML · CSS · JavaScript"}, {"id": "passgen", "title": "Password Generator", "show": true, "url": null, "poster": "sites/passgen.webp", "status": "قيد النشر", "desc": "مولّد كلمات مرور بطول يحدده شريط، مع خيارات الأحرف الصغيرة والكبيرة والأرقام والرموز والمسافات واستبعاد المكرر، ومؤشر قوة ونسخ بنقرة.", "tech": "HTML · CSS · JavaScript"}];</script>
 <script>
 const SECTIONS={
@@ -398,6 +400,9 @@ const count=n=>n===1?"عمل واحد":n===2?"عملان":n<11?n+" أعمال":n
 const lab=(n,f)=>n===1?f[0]:n===2?f[1]:n<11?n+" "+f[2]:n+" "+f[3];
 const imgLab=n=>lab(n,["صورة","صورتان","صور","صورة"]);
 const N=n=>String(n).padStart(2,"0");
+/* صورة بمقاساتها من IMGS (يولّدها make_pages.py): src وsrcset وwidth/height */
+const pic=(rel,sizes,extra=' loading="lazy" decoding="async"')=>{const m=IMGS[rel];if(!m)return `<img src="${rel}" alt=""${extra}>`;const ss=m[2].length?` srcset="${m[2].map(([r,x])=>r+" "+x+"w").join(", ")}, ${rel} ${m[0]}w" sizes="${sizes}"`:"";return `<img src="${rel}"${ss} width="${m[0]}" height="${m[1]}" alt=""${extra}>`};
+const SZ_CARD="(max-width:640px) calc(100vw - 32px), (max-width:1000px) 46vw, 360px";
 const groups=[...new Set(WORKS.map(w=>w.group))];
 const catsOf=g=>[...new Set(WORKS.filter(w=>g==="الكل"||w.group===g).map(w=>w.cat))];
 const isImg=w=>w.kind==="images";
@@ -530,14 +535,6 @@ function wirePreview(root){
 document.addEventListener("visibilitychange",()=>{if(document.hidden){for(const vd of [...live])pvStop(vd)}});
 
 /* ===== الشريط العلوي والإحصاءات ===== */
-const SV=[
- ["فيديو بالذكاء الاصطناعي","مسلسلات كرتونية وأفلام قصيرة وبودكاست مصوّر وفيديو تعليمي، بشخصيات وأصوات وموسيقى.","فيديو"],
- ["تصميم وهويات","مجلات وإنفوجرافيك وملصقات، وشعار وتطبيقاته من أدوات مكتبية وعبوات.","تصميم"],
- ["عروض وتحليل بيانات","عروض تقديمية بتصميم متكامل، ولوحات Power BI تحوّل الأرقام إلى قرار.","عروض وبيانات"],
- ["مواقع وتطبيقات ويب","منصات وأدوات تعمل في المتصفح، من واجهة عربية واضحة إلى منطق وقاعدة بيانات.",SG],
-];
-$("#svcs").innerHTML=SV.map((s,i)=>`<a class="row" href="#works" data-go="${esc(s[2])}"><span class="n">${N(i+1)}</span><h3>${s[0]}</h3><p>${s[1]}</p><span class="go">شاهد الأعمال ←</span></a>`).join("")
- +`<a class="row" href="#contact"><span class="n">05</span><h3>تنسيق الملفات</h3><p>ملفات Word وPowerPoint وPDF مرتّبة على دليل الجهة أو الجامعة.</p><span class="go">اطلب تنسيقًا ←</span></a>`;
 $("#moreT").firstChild.textContent="مختارات من أكثر من "+CFG.total+" عمل، والمزيد متاح عند الطلب. ";
 $("#moreWa").href="https://wa.me/"+WA+"?text="+encodeURIComponent("مرحبًا، شاهدت معرض M.K Studio وأريد رؤية نماذج أخرى في خدمة: ");
 $("#heroWa").href=waFor("مشروع جديد");
@@ -546,14 +543,19 @@ document.querySelectorAll("[data-wa-service]").forEach(a=>{a.href=waFor(a.datase
 /* ===== الهيرو: الفيلم المميز مع هويتين ===== */
 const f=byId(FEATURE), m1=byId("g1"), m2=byId("g15");
 const lamha=w=>w.teaser?`لمحة ${fmt(w.teaser.dur)} من ${fmt(w.teaser.full_dur)}`:fmt(w.dur);
-const mini=w=>`<button class="mini" data-open="${w.id}"><img src="${w.poster}" alt="" loading="lazy"><span>${esc(w.title)}</span></button>`;
-$("#collage").innerHTML=`<button class="fw" data-open="${f.id}" id="fw"><img src="${f.poster}" alt="" fetchpriority="high"><video id="fwv" muted loop playsinline preload="none" aria-hidden="true"></video><span class="tagnew">الفيلم المميز</span><span class="bigplay"><span class="playdot"></span></span><span class="cap"><small>${esc(f.cat)} · ${lamha(f)}</small><b>${esc(f.title)}</b></span></button>`+mini(m1)+mini(m2);
+const mini=w=>`<button class="mini" data-open="${w.id}">${pic(w.poster,"(max-width:860px) 46vw, 270px")}<span>${esc(w.title)}</span></button>`;
+$("#collage").innerHTML=`<button class="fw" data-open="${f.id}" id="fw">${pic(f.poster,"(max-width:860px) calc(100vw - 32px), 560px",' fetchpriority="high" decoding="async"')}<video id="fwv" muted loop playsinline preload="none" aria-hidden="true"></video><span class="tagnew">الفيلم المميز</span><span class="bigplay"><span class="playdot"></span></span><span class="cap"><small>${esc(f.cat)} · ${lamha(f)}</small><b>${esc(f.title)}</b></span></button><button class="fwp" id="fwp" type="button" aria-pressed="false" hidden><i aria-hidden="true"></i><span>إيقاف المعاينة</span></button>`+mini(m1)+mini(m2);
 (function(){
   /* لا تنزيل تلقائي على اللمس أو مع توفير البيانات أو تقليل الحركة: الملصق فقط، والنقر يفتح العارض */
   if(reduce||saveData||!canHover)return;
   const hv=$("#fwv"),src=f.teaser?f.teaser.file:f.file;if(!src)return;
-  let seen=false;
-  const play=()=>{if(!hv.src)hv.src=src;hv.play().then(()=>{hv.style.opacity=1},()=>{})};
+  let seen=false,stopped=false;try{stopped=localStorage.getItem("mk-hero-pv")==="off"}catch(e){}
+  const btn=$("#fwp"),lbl=btn.querySelector("span");
+  const setBtn=()=>{btn.setAttribute("aria-pressed",stopped);lbl.textContent=stopped?"تشغيل المعاينة":"إيقاف المعاينة"};
+  const play=()=>{if(stopped)return;if(!hv.src)hv.src=src;hv.play().then(()=>{hv.style.opacity=1},()=>{})};
+  btn.hidden=false;setBtn();
+  btn.addEventListener("click",()=>{stopped=!stopped;try{localStorage.setItem("mk-hero-pv",stopped?"off":"on")}catch(e){}
+    setBtn();if(stopped){hv.pause();hv.style.opacity=0}else if(seen)play()});
   const go=()=>setTimeout(()=>{
     new IntersectionObserver(es=>es.forEach(x=>{seen=x.isIntersecting;if(seen&&!document.hidden)play();else hv.pause()})).observe($("#fw"));
   },400);
@@ -561,12 +563,12 @@ $("#collage").innerHTML=`<button class="fw" data-open="${f.id}" id="fw"><img src
   document.addEventListener("visibilitychange",()=>{if(document.hidden)hv.pause();else if(seen&&hv.src)play()});
 })();
 
-$("#picks").innerHTML=`<div class="blk-h"><h2>أبرز الأعمال</h2></div><div class="bento">`+BENTO.map(([id,k])=>{const w=byId(id);return `<button class="tile ${k}" data-open="${id}"><img src="${w.poster}" alt="" loading="lazy" decoding="async">${isImg(w)?"":`<span class="tp"><span class="playdot"></span></span>`}<span class="lbl"><small>${esc(w.cat)}${w.teaser?" · لمحة":""}</small><b>${esc(w.title)}</b></span></button>`}).join("")+`</div>`;
+/* أبرز الأعمال: HTML أولي يكتبه make_pages.py من BENTO نفسها، فلا يُعاد رسمه هنا */
 
 /* ===== الأعمال ===== */
 function strip(w){
   const src=[w.poster,...w.images.slice(1)];
-  return `<div class="strip" data-i="0">${src.map(x=>`<img src="${x}" alt="" loading="lazy" decoding="async">`).join("")}</div><span class="dots" aria-hidden="true">${src.map((_,i)=>`<i${i?"":' class="on"'}></i>`).join("")}</span>`;
+  return `<div class="strip" data-i="0">${src.map(x=>pic(x,SZ_CARD)).join("")}</div><span class="dots" aria-hidden="true">${src.map((_,i)=>`<i${i?"":' class="on"'}></i>`).join("")}</span>`;
 }
 function wireStrips(root){
   root.querySelectorAll(".strip").forEach(st=>{
@@ -581,11 +583,11 @@ function card(w){
   const pvSrc=w.teaser?w.teaser.file:w.file;
   const meta=isImg(w)?`<span class="meta">${imgLab(w.images.length)}</span>`
     :w.teaser?`<span class="meta">لمحة · ${fmt(w.teaser.dur)} من ${fmt(w.teaser.full_dur)}</span>`:`<span class="meta full">عمل كامل · ${fmt(w.dur)}</span>`;
-  return `<button class="card${isImg(w)?" img":""}" data-open="${w.id}"><div class="thumb"${hasPv?" data-pv":""}>${isImg(w)&&w.images.length>1?strip(w):`<img src="${w.poster}" alt="" loading="lazy" decoding="async">`}${hasPv?`<video muted loop playsinline preload="none" data-src="${pvSrc}" aria-hidden="true"></video>`:""}${isImg(w)?"":`<span class="pl"><span class="playdot"></span></span>`}${meta}</div><b>${esc(w.title)}</b><small>${esc(w.desc)}</small></button>`;
+  return `<button class="card${isImg(w)?" img":""}" data-open="${w.id}"><div class="thumb"${hasPv?" data-pv":""}>${isImg(w)&&w.images.length>1?strip(w):pic(w.poster,SZ_CARD)}${hasPv?`<video muted loop playsinline preload="none" data-src="${pvSrc}" aria-hidden="true"></video>`:""}${isImg(w)?"":`<span class="pl"><span class="playdot"></span></span>`}${meta}</div><b>${esc(w.title)}</b><small>${esc(w.desc)}</small></button>`;
 }
 function siteCard(s,i){
   const act=`<span class="soon">لقطات من الموقع</span>`;
-  return `<article class="site"><button class="shot" data-site="${i}" aria-label="عرض لقطة ${esc(s.title)}"><img src="${s.poster}" alt="" loading="lazy" decoding="async" width="800" height="500"></button><div class="bd"><h3>${esc(s.title)}</h3><p>${esc(s.desc)}</p><ul class="tech">${s.tech.split("·").map(t=>`<li>${esc(t.trim())}</li>`).join("")}</ul><div class="act">${act}</div></div></article>`;
+  return `<article class="site"><button class="shot" data-site="${i}" aria-label="عرض لقطة ${esc(s.title)}">${pic(s.poster,"(max-width:640px) calc(100vw - 32px), (max-width:1000px) 46vw, 480px")}</button><div class="bd"><h3>${esc(s.title)}</h3><p>${esc(s.desc)}</p><ul class="tech">${s.tech.split("·").map(t=>`<li>${esc(t.trim())}</li>`).join("")}</ul><div class="act">${act}</div></div></article>`;
 }
 function chips(){
   const all=["الكل",...groups,...(SITES.length?[SG]:[])];
